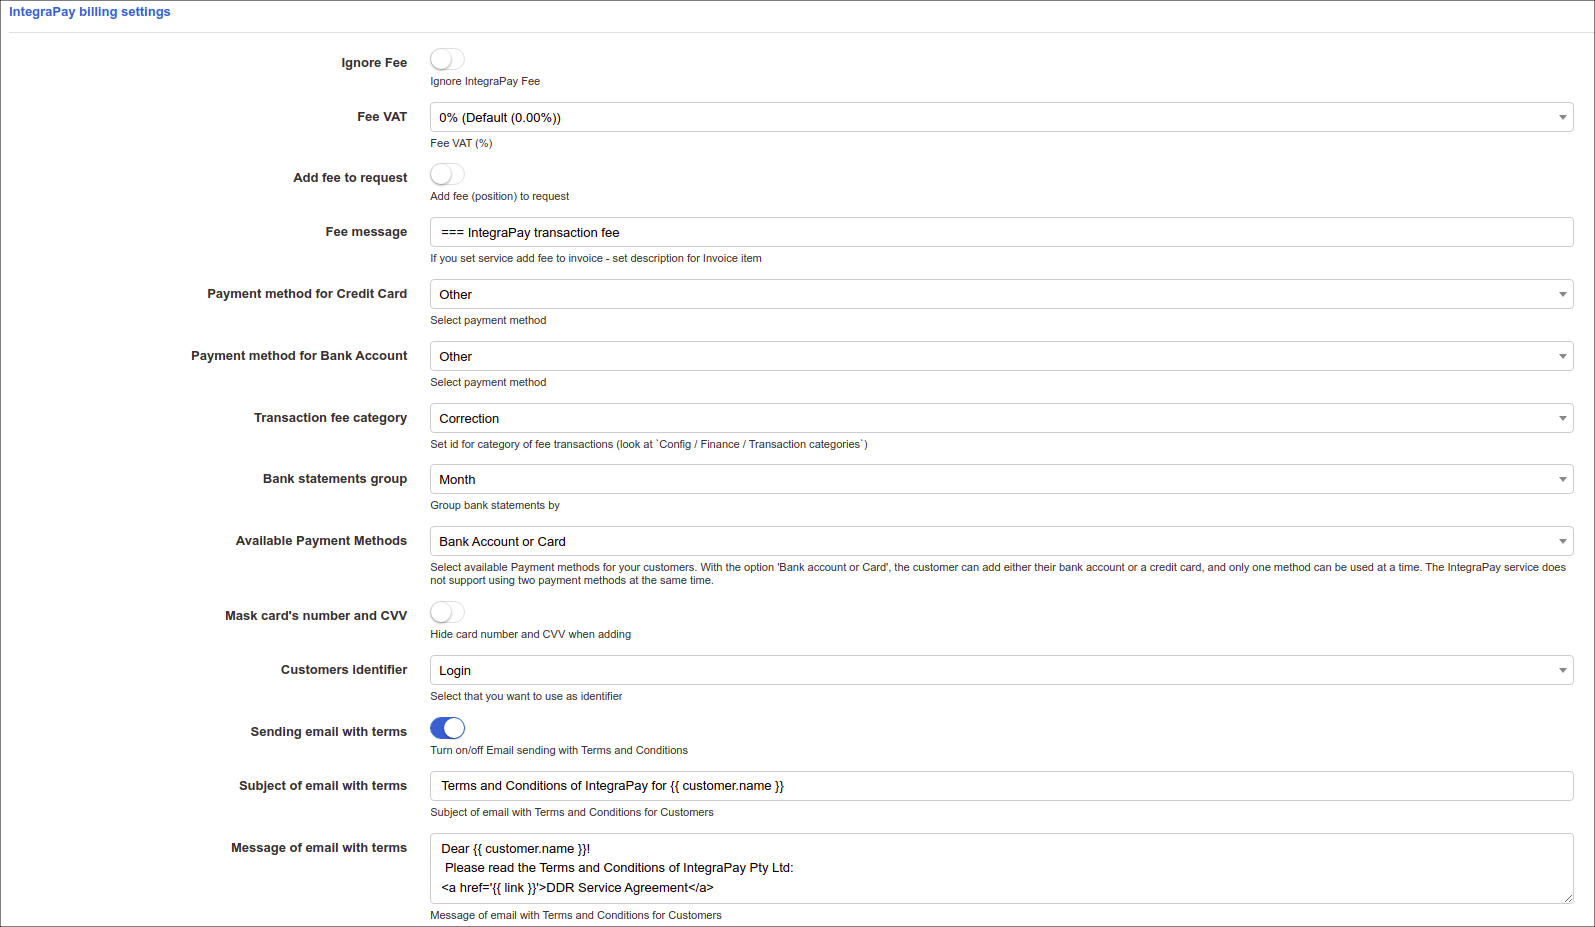
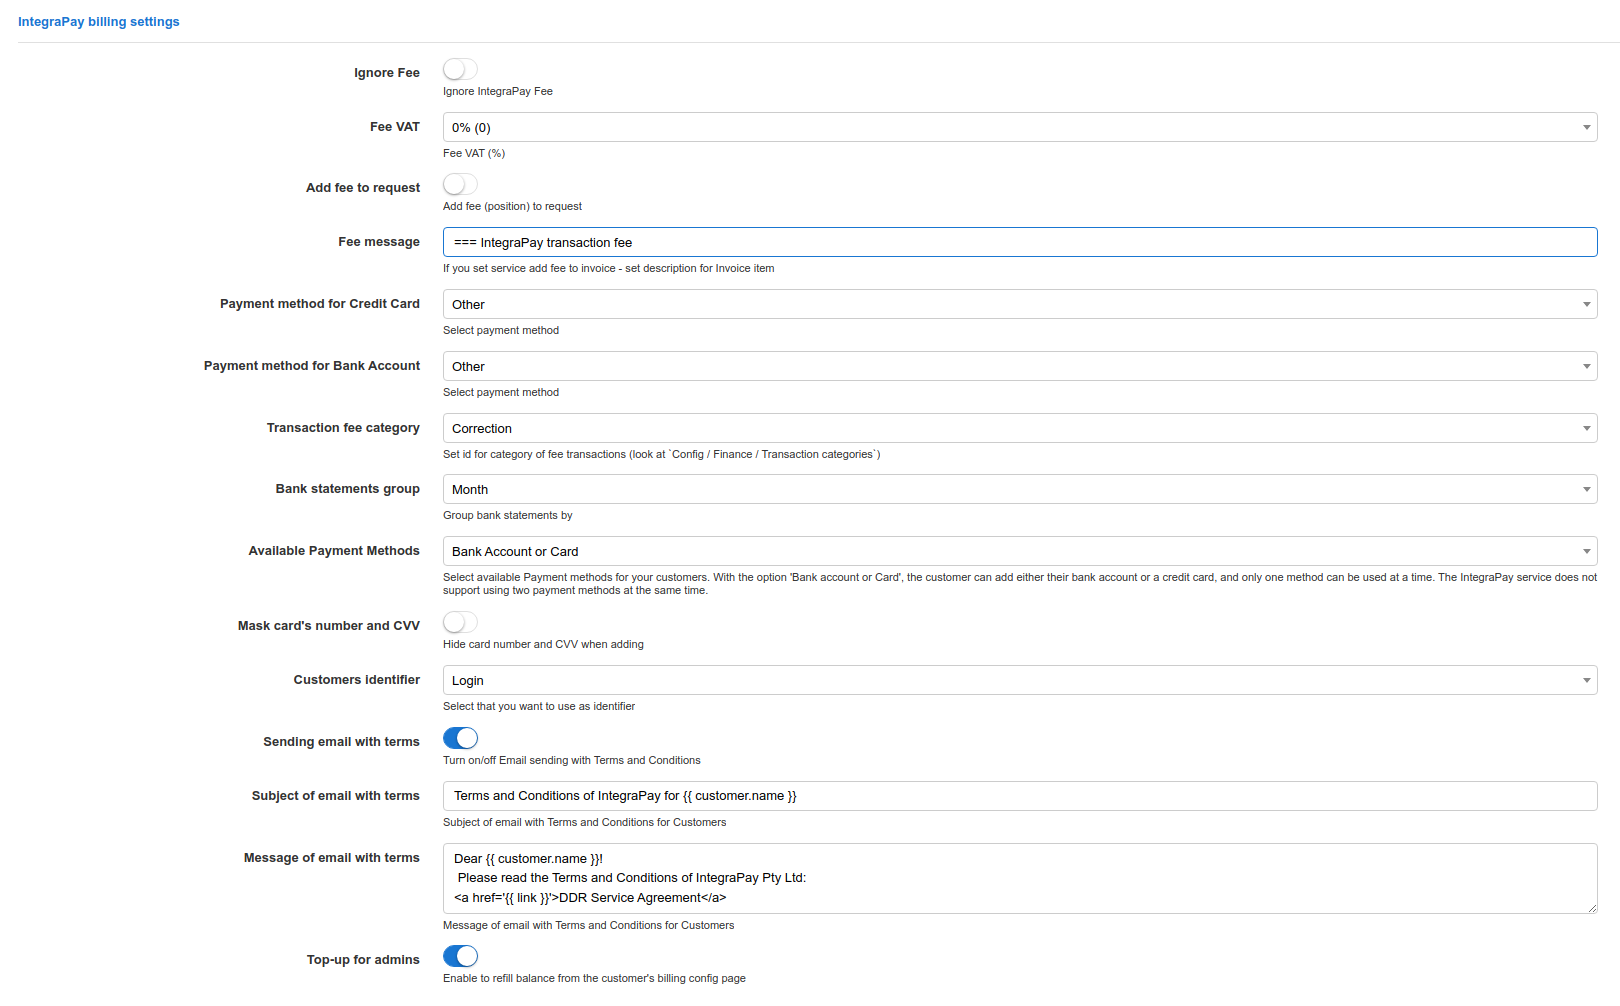
draft1

diff --git a/files/en/payment_systems/integrapay/integrapay.md b/files/en/payment_systems/integrapay/integrapay.md
@@ -63,7 +63,34 @@ Then, you need to set your **Username**, **Business ID** and **Password** in `In
 * **Customers identifier** - select what to use as identifier of customer on IntegraPay service side;
 * **Sending email with terms** - enable/disable the email sending with terms and conditions of the service to customers;
 * **Subject of email with terms** - subject of the email with terms and conditions of the service;
-* **Message of email with terms** - message of the email with terms and conditions of the service.
+* **Message of email with terms** - message of the email with terms and conditions of the service;
+* **Top-up for admins** - enable/disable the form to refill customer account balance from their billing configuration page (see the example below).
+
+<details style="font-size: 15px; margin-bottom: 5px;">
+<summary><b>Example</b></summary>
+<div markdown="1">
+
+![(image)](top-up_1.png)
+
+If the payment credentials are not added, the administrator can add it from this form. Pay attention, only one payment method can be used.
+
+![(image)](top-up_2.png)
+
+If the payment credentials are added by customer, e.g. credit card but `Top-up for admins` option is disabled on add-on configuration page, the administrator will see the next message
+
+![(image)](top-up_3.png)
+
+If the option `Top-up for admins` is enabled on add-on configuration page, the administrator can top up the customer's balance, the saved payment method will be used.
+
+![(image)](top-up_4.png)
+
+![(image)](top-up_5.png)
+
+</div>
+</details>
+
+
+<br>
 
 
 **IntegraPay API settings:**
@@ -86,7 +113,7 @@ Navigate to `Finance → IntegraPay payment credentials` and type the required c
 
 Once the configuration has been completed, customers can pay their invoices on [Portal](customer_portal/customer_portal.md),
 
-using the *IntegraPay* system in `Finance → Invoices`:
+using the *IntegraPay* entry point in `Finance → Invoices`:
 
 ![(image)](6.png)
 
@@ -94,7 +121,7 @@ using the *IntegraPay* system in `Finance → Invoices`:
 
 ![(image)](6.2.png)
 
-or pay directly on Portal Dashboard:
+or pay directly on Portal Dashboard (the related entry points should be enabled):
 
 ![(image)](pay_from_dashboard.png)
 
